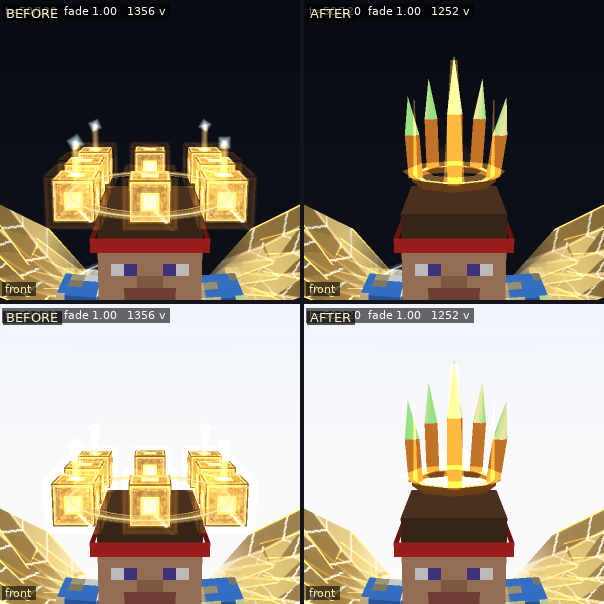
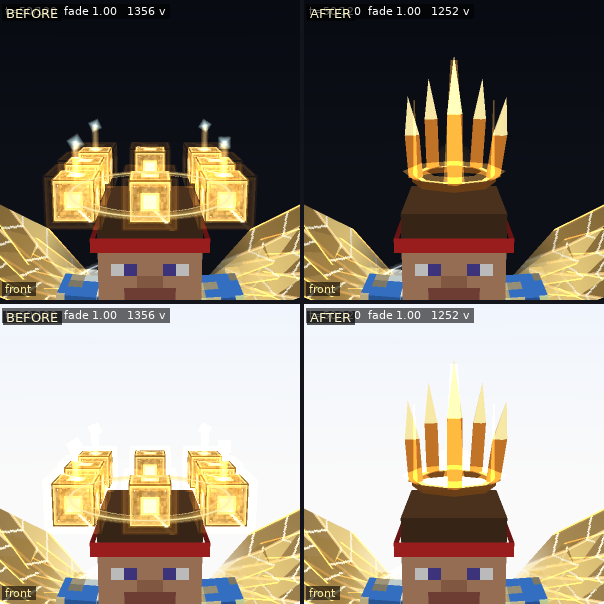
Spirit Dive merge 2: previews (turntables, merge, entry, first person, crowns), doc numbers
Claude-Session: https://claude.ai/code/session_0174t393fJ2EgwV92FW9SroE

Changed region(s): [[0.6556, 0.596, 0.8344, 0.745], [0.6556, 0.1192, 0.8344, 0.2384]]

diff --git a/docs/magic/spirit_dive_merge2.md b/docs/magic/spirit_dive_merge2.md
@@ -84,7 +84,7 @@ the **ANIME** sprite crown (Wind, Water, Fire, Earth sprites). Now:
 | Wind B, Wind C, the PACK sprite crown, the ANIME sprite crown | **scaled only** (62 percent about the head's top: smaller and closer); they are cubes, a mesh, sprites of their own style, not remodelled |
 
 Vertices (crown only): Wind 320 (standard) / 400 (character), the half crowns 180 / 220, against 400 / 688 and 232 / 344 for the old Wind A crown (**cheaper by 80 to 288**); Fire 320 / 400; Water 476 / 612 (the drops);
-Earth 316. Budget in the rules and tests: 480 standard, 620 character. The REEL cube crown drew 12 to 16 cubes at 24 + 24 vertices plus bars and the gold ring (about 700 to 900); the new crowns are cheaper.
+Earth 316. Budget in the rules and tests: 480 standard, 620 character. Measured in the harness (the whole steady dive at age 50, front view, vertices before -> after): Wind standard 1,332 -> 1,252, Wind Yuno 2,776 -> 2,488, Fire standard 1,372 -> 1,272, Fuegoleon 2,720 -> 2,484, Water Noelle 2,136 -> 2,112 (the drops cost nearly what the cubes did), Earth 1,356 -> 1,252: every crown is cheaper or equal. The same for the entry (tick 14, standard Wind): 2,840 -> 2,720 vertices.
 Previews: `crowns_<element>_<tier>.png`: front, three quarters and side, BEFORE (left) and AFTER (right), on a dark (top) and a bright (bottom) background; `crowns_meshes.png` the bare meshes.
 
 ## 6. Files
